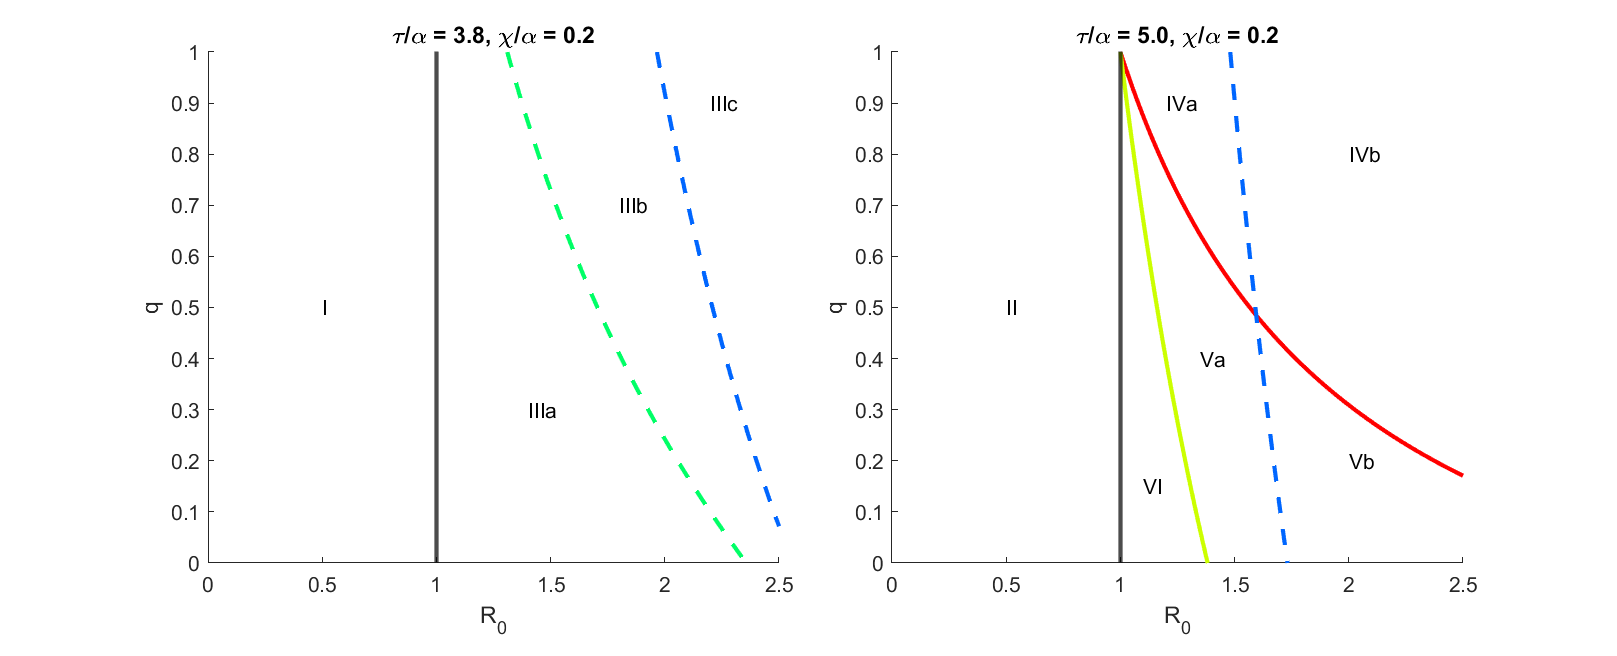
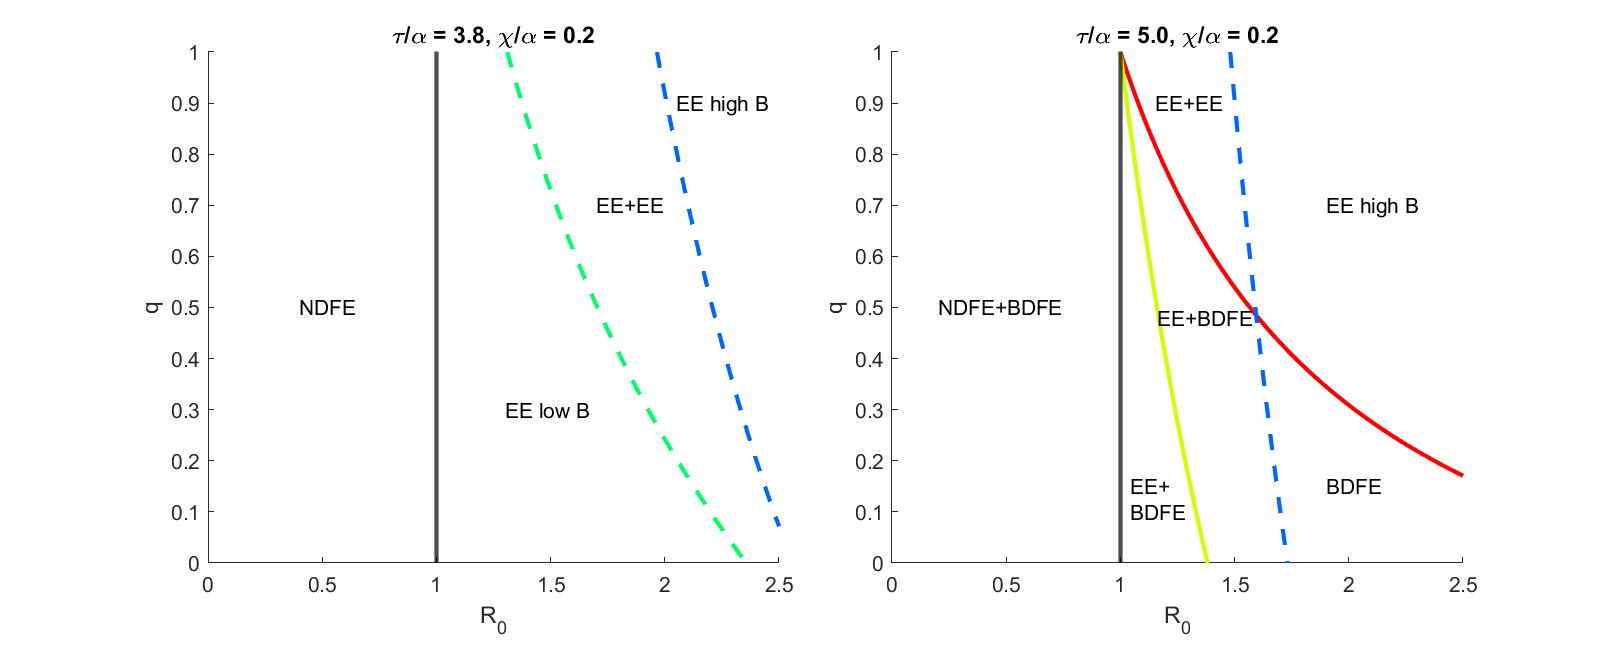
Better plot labelling

diff --git a/main.m b/main.m
@@ -103,17 +103,18 @@ for iCase = 1:nCases
     ylabel('q')
     % Add region labels
     if iCase == 1
-        text(0.5, 0.5, 'I')
-        text(1.4, 0.3, 'IIIa')
-        text(1.8, 0.7, 'IIIb')
-        text(2.2, 0.9, 'IIIc')
+        text(0.4, 0.5, 'NDFE')
+        text(1.3, 0.3, 'EE low B')
+        text(1.7, 0.7, 'EE+EE')
+        text(2.05, 0.9, 'EE high B')
     else
-        text(0.5 ,0.5, 'II')
-        text(1.2, 0.9, 'IVa')
-        text(2, 0.8, 'IVb')
-        text(1.35, 0.4, 'Va')
-        text(2, 0.2, 'Vb')
-        text(1.1, 0.15, 'VI')
+        text(0.2 ,0.5, 'NDFE+BDFE')
+        text(1.15, 0.9, 'EE+EE')
+        text(1.9, 0.7, 'EE high B')
+        text(1.16, 0.48, 'EE+BDFE')
+        text(1.9, 0.15, 'BDFE')
+        text(1.04, 0.15, 'EE+')
+        text(1.04, 0.1, 'BDFE')
     end
     title("\tau/\alpha = " + sprintf('%.1f', a) + ", \chi/\alpha = " + sprintf('%.1f', b) )
 
